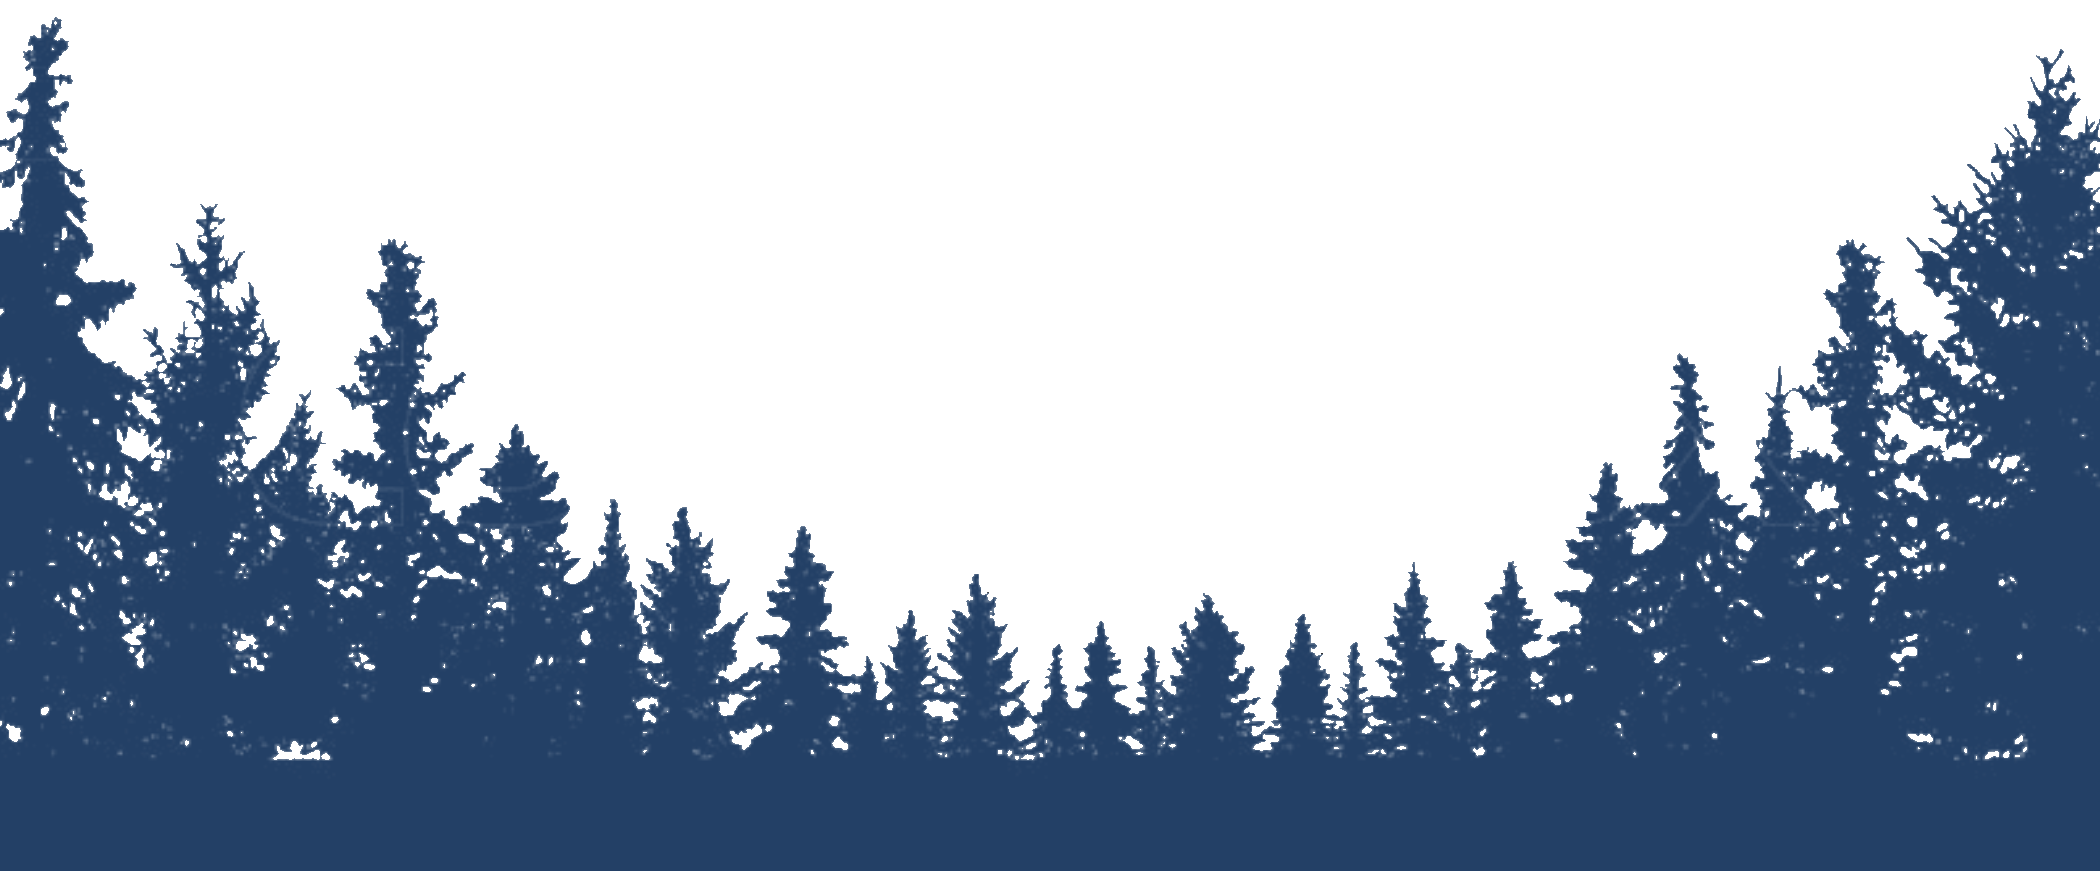
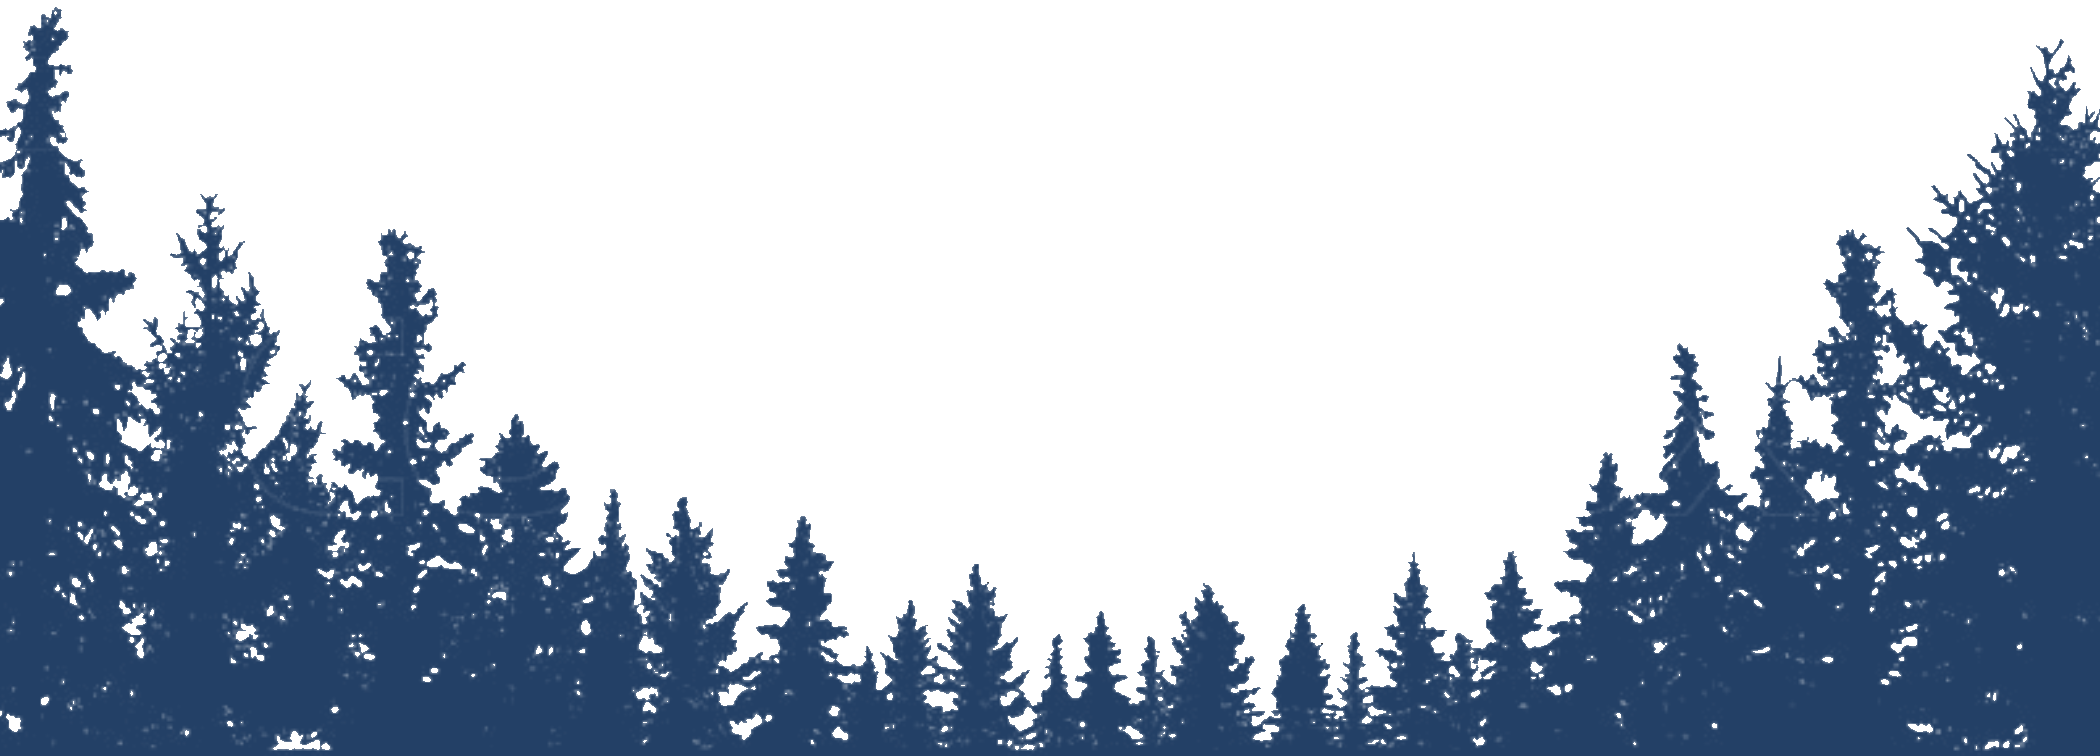
structure and styling of profile elements, add seed script to server, adjust display of auth cards, react conditional for tagline, adjust treeline display, add variable for white cards

diff --git a/client/src/components/main/profile/Profile.tsx b/client/src/components/main/profile/Profile.tsx
@@ -1,11 +1,85 @@
+import React from "react";
+// this image is for dev, will be replaced by imported image
+import ProfilePic from '../../../images/nosferatu.png';
 import './profile.scss';
-import Dashboard from '../dashboard/Dashboard';
 
-export default function Profile()  {
-    return  (
-        <div>
-            <h2>PROFILE</h2>
-            <p>Contains an avatar, a name, all posts from this user, and the creatures that this user has been tracking</p>
+function Profile() {
+    return (
+        <div className='Profile'>
+            <div className='column-left'>
+                <section className='user-stuff'>
+                    <img className='profile-pic' src={ProfilePic}/>
+                    <h3 className='username'>username</h3>
+                    <h4 className='bio'>a little bio about me, a fellow monster hunter</h4>
+                </section>
+                <div className='my-creatures'>
+                    <h4>Creatures on my radar</h4>
+                    <ul>
+                        <li>Jersey Devil</li>
+                        <li>The Syracuse Siren</li>
+                        <li>Gary Busey</li>
+                    </ul>
+                </div>
+            </div>
+
+            <div className='my-reports column-right'>
+                <h2 className='Profile-title'>My Reports</h2>
+                <div className='report'>
+                    <section className='report-info'>
+                        <h3 className='report-title'>Report Title</h3>
+                        <h4 className='report-name-date'>by Name on Date</h4>
+                    </section>
+                    <p className='report'>Report report report report Report report report report Report report report report Report report report report Report report report report Report report report report Report report report report.</p>
+                    <ul className='tags-list'>
+                        <li className='report-tag'>#tag</li>
+                        <li className='report-tag'>#tag</li>
+                        <li className='report-tag'>#tag</li>
+                        <li className='report-tag'>#tag</li>
+                    </ul>
+                </div>
+                <div className='report'>
+                    <section className='report-info'>
+                        <h3 className='report-title'>Report Title</h3>
+                        <h4 className='report-name-date'>by Name on Date</h4>
+                    </section>
+                    <p className='report'>Report report report report Report report report report Report report report report Report report report report Report report report report Report report report report Report report report report.</p>
+                    <ul className='tags-list'>
+                        <li className='report-tag'>#tag</li>
+                        <li className='report-tag'>#tag</li>
+                        <li className='report-tag'>#tag</li>
+                        <li className='report-tag'>#tag</li>
+                    </ul>
+                </div>
+                <div className='report'>
+                    <section className='report-info'>
+                        <h3 className='report-title'>Report Title</h3>
+                        <h4 className='report-name-date'>by Name on Date</h4>
+                    </section>
+                    <p className='report'>Report report report report Report report report report Report report report report Report report report report Report report report report Report report report report Report report report report.</p>
+                    <ul className='tags-list'>
+                        <li className='report-tag'>#tag</li>
+                        <li className='report-tag'>#tag</li>
+                        <li className='report-tag'>#tag</li>
+                        <li className='report-tag'>#tag</li>
+                    </ul>
+                </div>
+                <div className='report'>
+                    <section className='report-info'>
+                        <h3 className='report-title'>Report Title</h3>
+                        <h4 className='report-name-date'>by Name on Date</h4>
+                    </section>
+                    <p className='report'>Report report report report Report report report report Report report report report Report report report report Report report report report Report report report report Report report report report.</p>
+                    <ul className='tags-list'>
+                        <li className='report-tag'>#tag</li>
+                        <li className='report-tag'>#tag</li>
+                        <li className='report-tag'>#tag</li>
+                        <li className='report-tag'>#tag</li>
+                    </ul>
+                </div>
+            </div>
         </div>
+
     )
 }
+
+export default Profile

diff --git a/client/src/components/main/profile/profile.scss b/client/src/components/main/profile/profile.scss
@@ -1,0 +1,90 @@
+div.Profile    {
+    display: flex;
+    flex-direction: row;
+    justify-content: space-evenly;
+    align-items: flex-start;
+    margin-top: 50px;
+    width: 100%;
+}
+
+section.user-stuff  {
+    display: flex;
+    flex-direction: column;
+    justify-content: space-evenly;
+    align-items: center;
+}
+
+img.profile-pic {
+    height: 100px;
+    width: auto;
+    border-radius: 50%;
+    margin-bottom: 15px;
+}
+
+div.my-creatures    {
+    background-color: var(--post);
+    border-radius: 20px;
+    padding: 10px;
+
+    > h4    {
+        margin-bottom: 10px;
+        text-align: center;
+    }
+}
+
+div.column-left {
+    flex: 0.3;
+    height: 50%;
+    margin-left: 10px;
+    margin-top: 50px;
+    display: flex;
+    flex-direction: column;
+    justify-content: space-evenly;
+}
+
+div.column-right    {
+    flex: 0.7;
+}
+
+div.my-reports  {
+    display: flex;
+    flex-direction: column;
+    align-items: center;
+    justify-content: space-evenly;
+    margin: 10px;
+}
+
+div.report  {
+    width:90%;
+    margin-top: 20px;
+    padding: 10px;
+    border-radius: 20px;
+    display: flex;
+    flex-direction: column;
+    justify-content: space-between;
+    align-items: center;
+    background-color: var(--post);
+}
+
+h2.blog-title   {
+    margin-bottom: 20px;
+}
+
+section.report-info {
+    width: 100%;
+    display: flex;
+    justify-content: space-between;
+}
+
+p.report    {
+    margin-top: 10px;
+    text-align: justify;
+}
+
+ul.tags-list    {
+    width:90%;
+    margin-top: 10px;
+    display: flex;
+    flex-direction: row;
+    justify-content: flex-start;
+}

diff --git a/client/src/components/main/dashboard/Dashboard.tsx b/client/src/components/main/dashboard/Dashboard.tsx
@@ -1,29 +1,10 @@
-import React from "react";
 import './dashboard.scss';
 
-function Dashboard() {
-    return (
+export default function Dashboard()  {
+    return  (
         <div className='dashboard'>
             <h2>DASHBOARD</h2>
             <p>Contains posts of users and tags that the logged-in user follows</p>
-            
-            <h2 className='dashboard-title'>My Reports</h2>
-            <div className='report'>
-                <section className='report-info'>
-                    <h3 className='report-title'>Report Title</h3>
-                    <h4 className='report-name-date'>by Name on Date</h4>
-                </section>
-                <p className='report'>Report report report report Report report report report Report report report report Report report report report Report report report report Report report report report Report report report report.</p>
-                <ul className='tags-list'>
-                    <li className='report-tag'>#tag</li>
-                    <li className='report-tag'>#tag</li>
-                    <li className='report-tag'>#tag</li>
-                    <li className='report-tag'>#tag</li>
-                </ul>
-            </div>
         </div>
-
     )
 }
-
-export default Dashboard

diff --git a/client/src/components/main/auth/authentication.scss b/client/src/components/main/auth/authentication.scss
@@ -3,7 +3,7 @@ div.authentication-container    {
     display: flex;
     flex-direction: row;
     align-items: center;
-    justify-content: space-around;
+    justify-content: space-evenly;
 }
 
 div.card    {
@@ -12,10 +12,10 @@ div.card    {
     display: flex;
     flex-direction: column;
     align-items: center;
-    justify-content: space-around;
+    justify-content: space-evenly;
     border-radius: 20px;
-    height: 300px;
-    width: 300px;
+    height: 400px;
+    width: 400px;
 }
 
 div.card > h4  {
@@ -23,21 +23,28 @@ div.card > h4  {
     width: 50%;
     top: 20px;
     text-align: center;
-    font-size: 20px;
+    font-size: 25px;
     border-radius: 4px;
 }
 
 input   {
     height: 20%;
+    width: 100%;
     margin-bottom: 15px;
     border-radius: 10px;
     border: 1px dotted gray;
+    text-align: center;
 }
 
 form.auth-form  {
     display: flex;
     flex-direction: column;
     align-items: center;
-    // justify-content: space-around;
+    justify-content: space-evenly;
     height: 60%;
+    width: 300px;
+}
+
+button.auth-button  {
+
 }

diff --git a/client/src/components/main/Main.tsx b/client/src/components/main/Main.tsx
@@ -17,12 +17,13 @@ export default function Main(props:any) {
                 className={display === 'Homepage' ? 'cryptid homepage' : 'cryptid'} 
                 onClick={() => setDisplay('Homepage')}>CRYPT-ID</h1>
             </a>
-            <h2 className="tagline">a place for believers, theorists, and those who have seen the unexplainable....</h2>
+            <h2 className={display === 'Homepage' ? 'tagline homepage' : 'tagline'}>a place for believers, theorists, and those who have seen the unexplainable....</h2>
             <span id='scrollDown'></span>
             { display === 'Homepage' ? <Homepage /> : null }
             { display === 'Blog' ? <Blog /> : null }
             { display === 'Authentication' ? <Authentication /> : null }
             { display === 'Profile' ? <Profile /> : null }
+            { display === 'Dashboard' ? <Dashboard /> : null }
             {/* the section below can be toggled on and off to view imported fonts. (for dev only) */}
             {/* <div className='fonts'>
                 <p className='title'>title</p>

diff --git a/client/src/components/main/auth/Authentication.tsx b/client/src/components/main/auth/Authentication.tsx
@@ -8,14 +8,17 @@ export default function Authentication () {
                 <form id='login' className='auth-form'>
                     <input id='email-login' placeholder='email'></input>
                     <input id='password-login' placeholder='password'></input>
+                    <button id='login-button' className='auth-button'>Log In</button>
                 </form>
             </div>
+            <h2>OR</h2>
             <div className='card signup'>
                 <h4>Sign Up</h4>
                 <form id='signup' className='auth-form'>
                     <input id='email-signup' placeholder='email'></input>
                     <input id='username-signup' placeholder='username'></input>
                     <input id='password-signup' placeholder='password'></input>
+                    <button id='signup-button' className='auth-button'>Create Account</button>
                 </form>
             </div>
         </div>

diff --git a/client/src/components/main/main.scss b/client/src/components/main/main.scss
@@ -3,7 +3,7 @@ main    {
     position: relative;
     top:16vh;
     z-index:1;
-    height: 100%;
+    height: 100vh;
     width: 100%;
     min-height: 95vh;
     display: flex;
@@ -27,9 +27,9 @@ a:-webkit-any-link  {
 h1.cryptid.homepage    {
     position: relative;
     font-size: 50px;
-    margin-top: 10px;
     color: black;
     margin: 0px;
+    margin-top: 10px;
     top: 0px;
 }
 
@@ -42,7 +42,7 @@ h2.tagline.homepage  {
     display: inline;
     width: 90%;
     text-align: center;
-    margin-top: 15px;
+    margin-top: 30px;
     margin-bottom: 20px;
 }
 

diff --git a/client/src/components/main/blog/blog.tsx b/client/src/components/main/blog/blog.tsx
@@ -2,6 +2,7 @@ import './blog.scss';
 
 export default function Blog() {
     return  (
+        // this is for all posts or a specific category
         <div className='blog'>
             <h2 className='blog-title'>UFO Reports</h2>
             <div className='report'>

diff --git a/client/src/components/main/blog/blog.scss b/client/src/components/main/blog/blog.scss
@@ -14,7 +14,7 @@ div.report  {
     flex-direction: column;
     justify-content: space-between;
     align-items: center;
-    background-color: rgba(255, 255, 255, 0.342);
+    background-color: var(--post);
 }
 
 h2.blog-title   {

diff --git a/client/src/components/header/header.scss b/client/src/components/header/header.scss
@@ -1,11 +1,12 @@
 header.header   {
     position:relative;
     // height:50vh;
-    top:20vh;
+    top:16.5vh;
 }
 
 img.trees {
     width: 100vw;
+    bottom:-5px;
 }
 
 div.burger-links  {

diff --git a/client/src/index.scss b/client/src/index.scss
@@ -6,6 +6,7 @@
   --brown: #C67E58;
   --tan: #DDB37E;
   --red: #823246;
+  --post: rgba(255, 255, 255, 0.342);
 
   // fonts
   --title-font: 'Press Start 2P', cursive;

diff --git a/client/src/components/main/dashboard/dashboard.scss b/client/src/components/main/dashboard/dashboard.scss
@@ -1,0 +1,3 @@
+div.dashboard   {
+    margin-top: 100px;
+}
